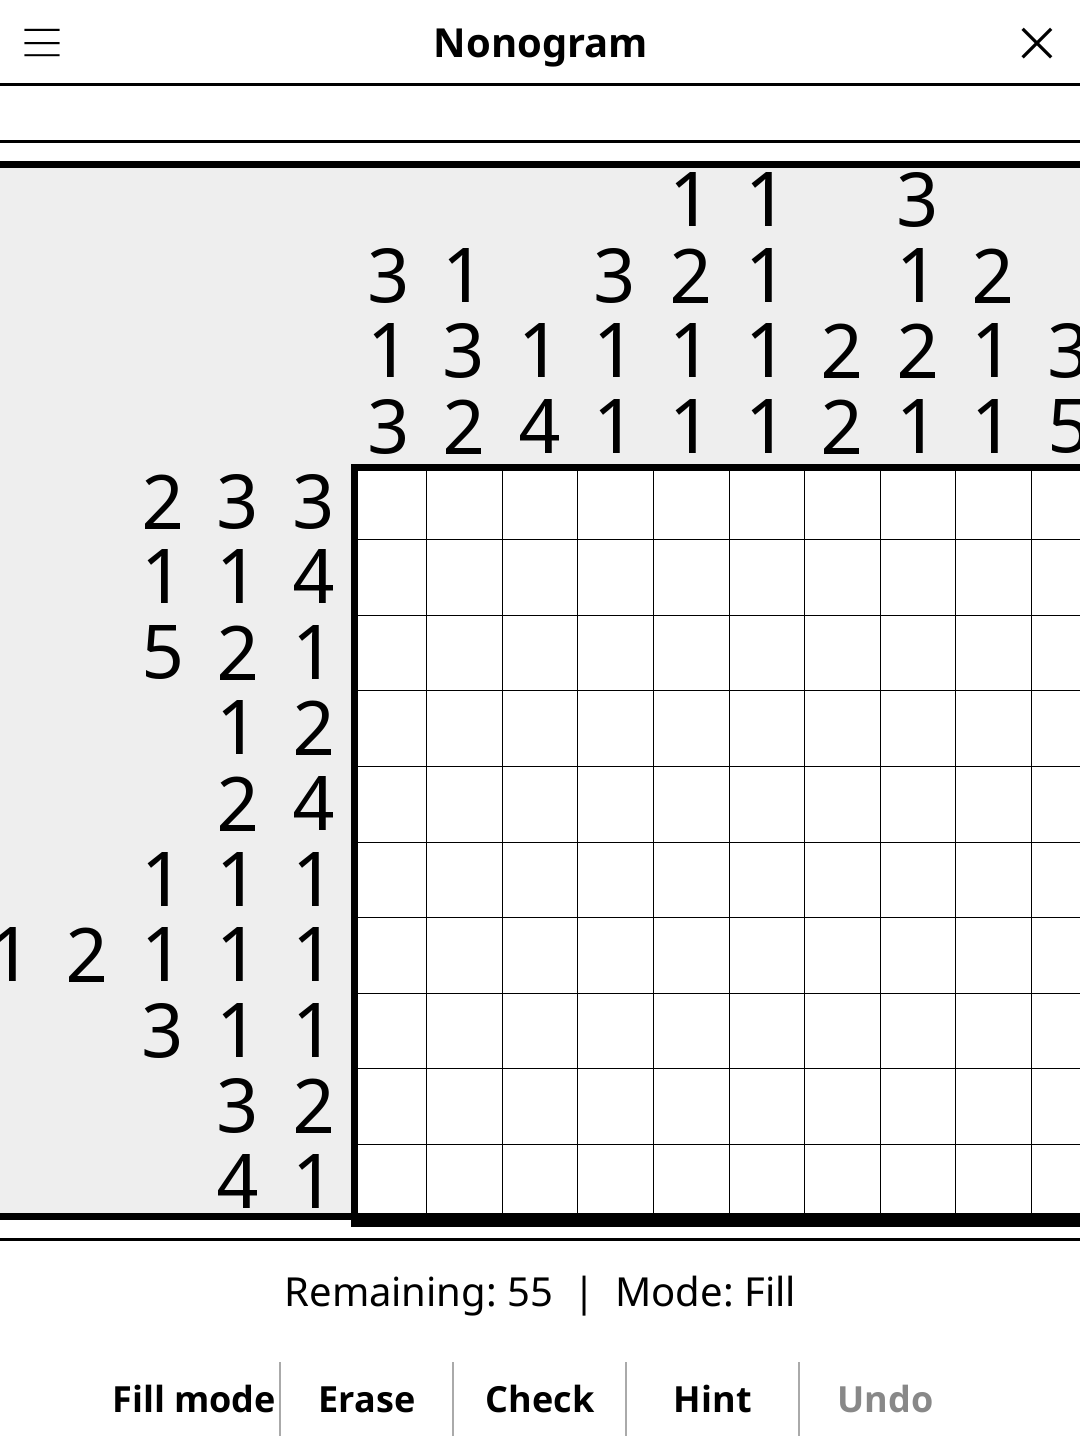
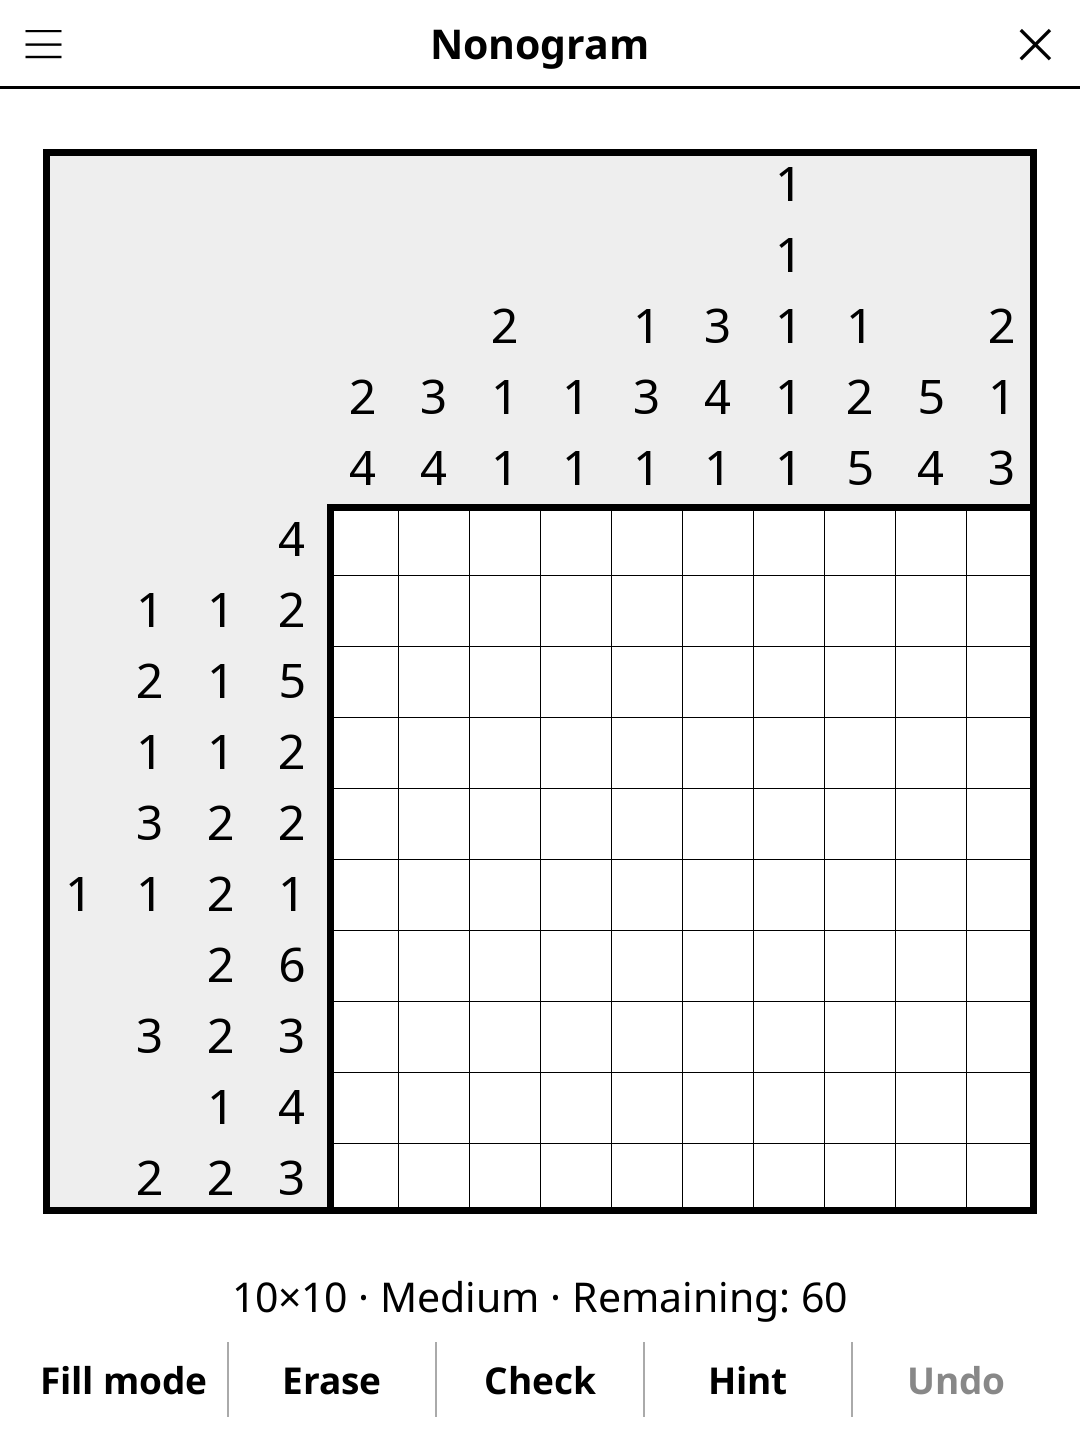
release: 1.3.0 -- redesigned screen, harmonised menu, New game at round end
Screen redesign (full-width action bar, unified pad, status line, larger
board), harmonised title-bar menu, and a "New game" button once the round
is over. See CHANGELOG.md.

diff --git a/CHANGELOG.md b/CHANGELOG.md
@@ -2,6 +2,36 @@
 
 All notable changes to this project will be documented in this file.
 
+## [1.3.0] - 2026-10-30
+
+### Added
+- "New game" once the picture is solved (or the solution is shown): the
+  action bar shows it in place of the game's buttons, so the next puzzle no
+  longer needs the menu.
+
+### Changed
+- Redesigned play screen, in line with the other games: a full-width action
+  bar (on two rows in landscape, where five buttons don't fit one), a
+  larger board -- clues and grid together are fitted to both the width and
+  the height available -- and one frame around it. The status line reads
+  "size · difficulty · Remaining: n" and wraps in landscape instead of
+  being cut off; the Fill/Cross mode is shown on its button only.
+- Title-bar menu in the same order as every other game, with the current
+  values shown: "Size: 10×10" (was "Grid: 10x10"), "Difficulty: …" (was
+  "Diff: …"), and "Show solution" (was "Reveal").
+- New README screenshot.
+
+### Fixed
+- Show solution now also clears wrongly filled cells, so the revealed board
+  is actually solved. A wrong fill left in place kept it unsolved, and the
+  round never read as over.
+- Clue numbers were sized off the cell and then scaled again by the screen
+  DPI, so two-digit clues overflowed their slots; they are now fitted and
+  centred.
+- Using Hint wiped the saved game: the board was saved as nothing. And when
+  a hint fills the last cell, the status now shows the win message.
+- The grid's closing lines were drawn just past its edges.
+
 ## [1.2.2] - 2026-10-07
 
 ### Fixed

diff --git a/README.md b/README.md
@@ -38,8 +38,8 @@ in that line. Solving the puzzle reveals a pixel-art picture.
 | Undo last move | Tap **Undo** |
 | Check progress | Tap **Check** |
 | New game | Tap **New game** |
-| Change grid size | Tap **Grid** |
-| Change difficulty | Tap **Diff** |
+| Change grid size | Tap **Size** |
+| Change difficulty | Tap **Difficulty** |
 | Show rules | Tap **Rules** |
 
 ## Why e-ink friendly?
